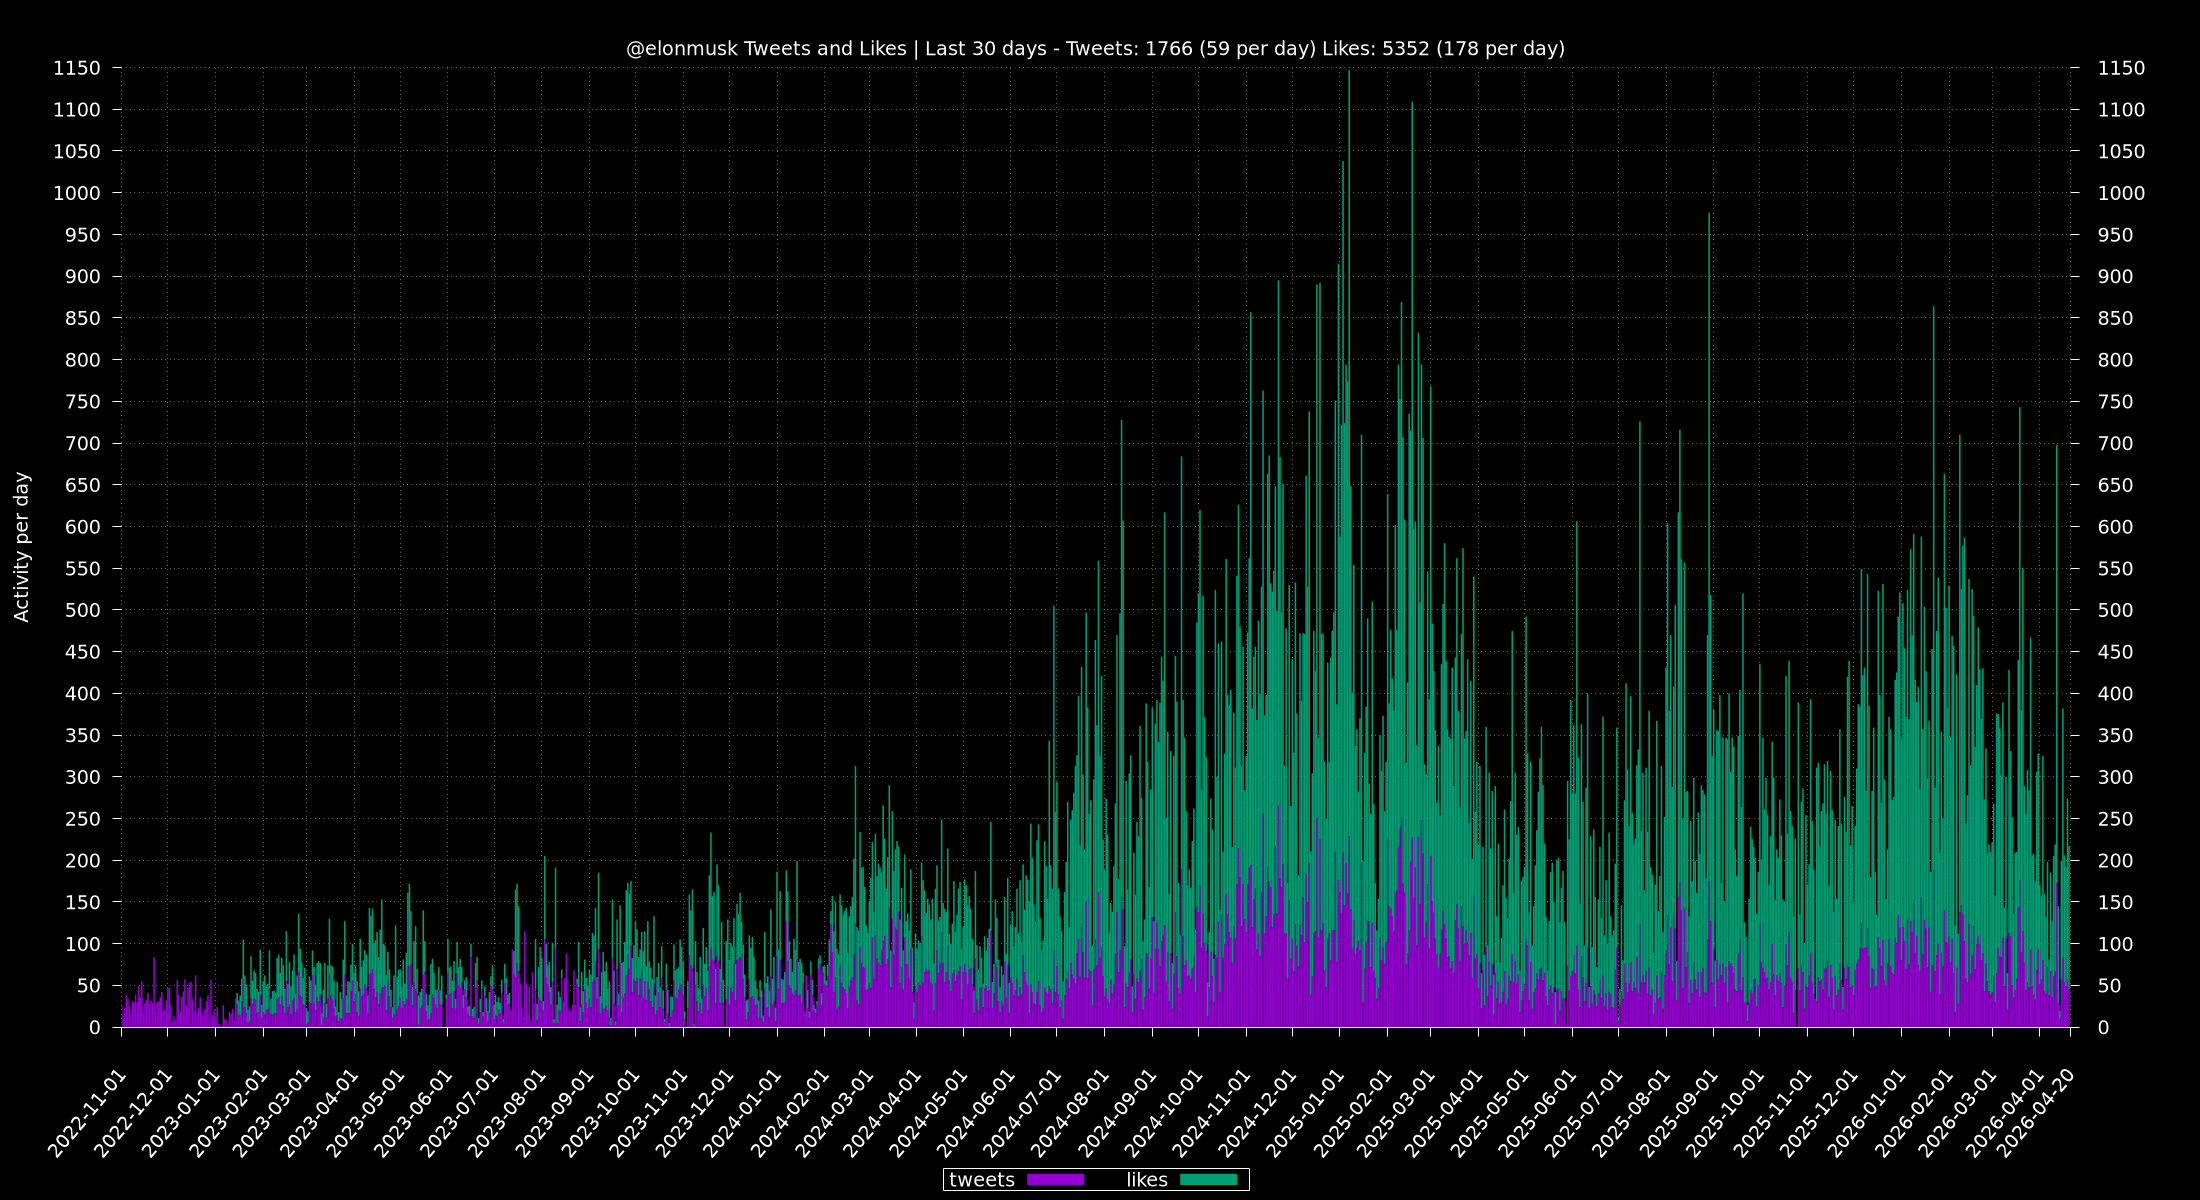
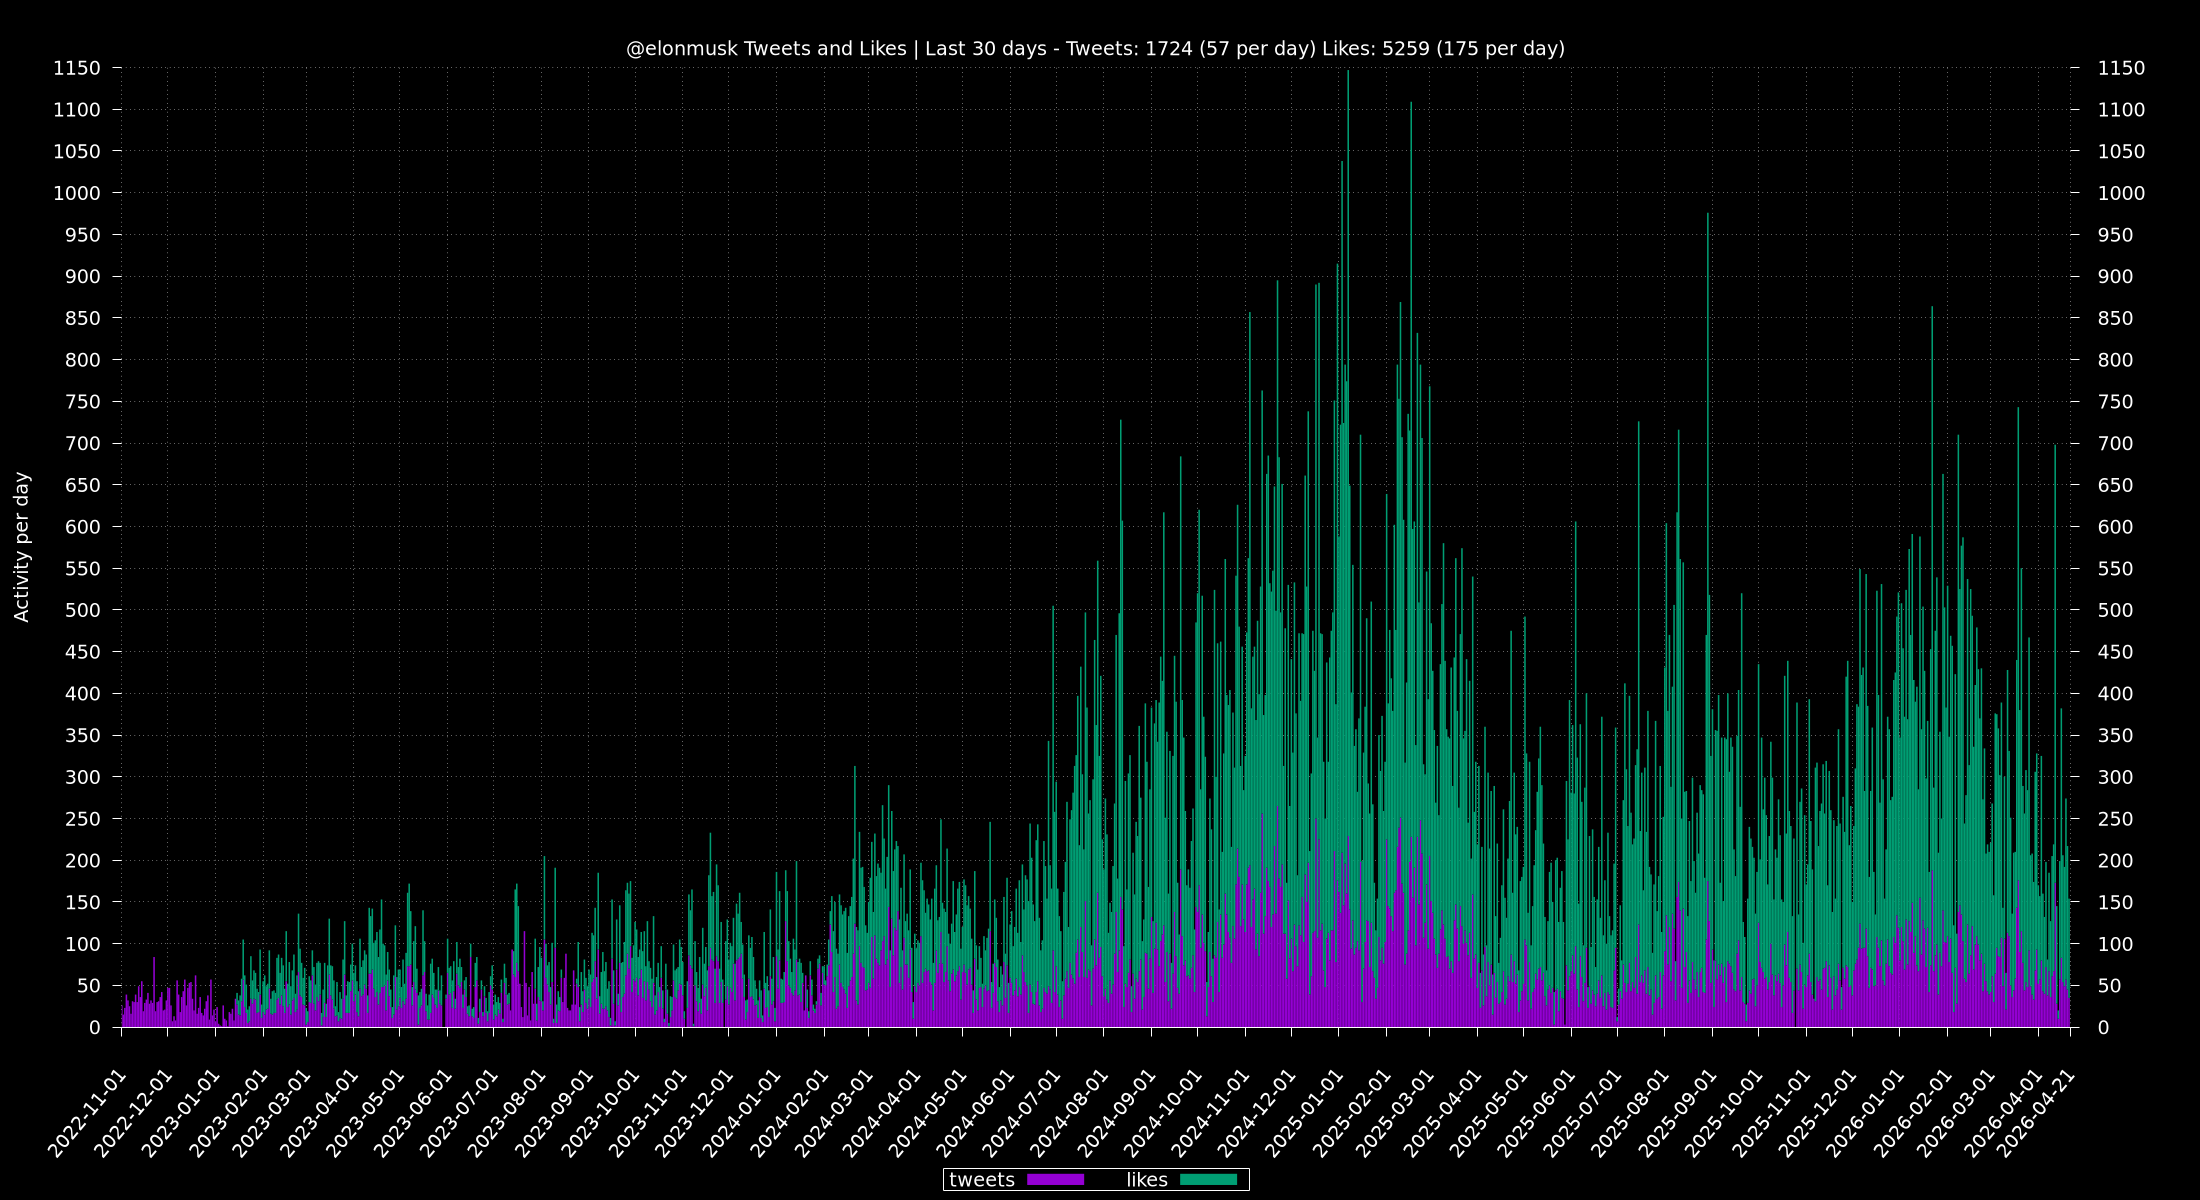
update via cron

diff --git a/totals/README.md b/totals/README.md
@@ -1,6 +1,6 @@
 ## Last 30 Days
-Tweets: 1881 (61 per day)\
-Likes: 5787 (187 per day)
+Tweets: 1801 (58 per day)\
+Likes: 5471 (176 per day)
 
 ## 24 Hours
 Max: [**341**](../misc/most-tweets_24-hr.csv) - From `2024-11-23 14:29:53 CST` To `2024-11-24 14:28:44 CST`